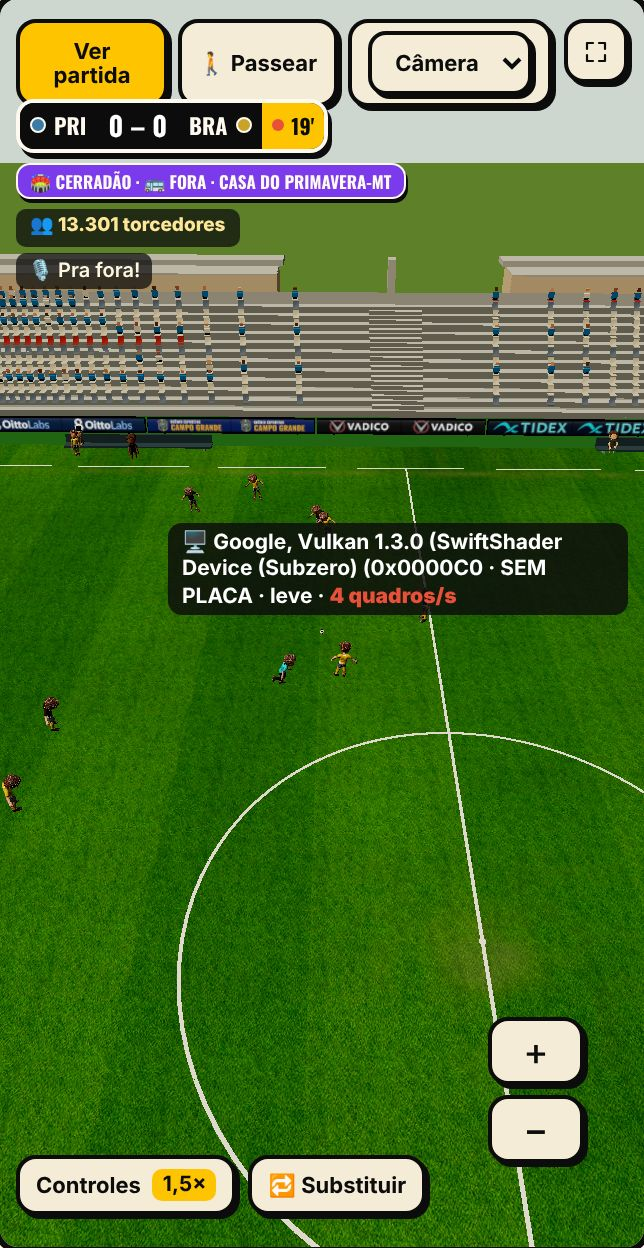
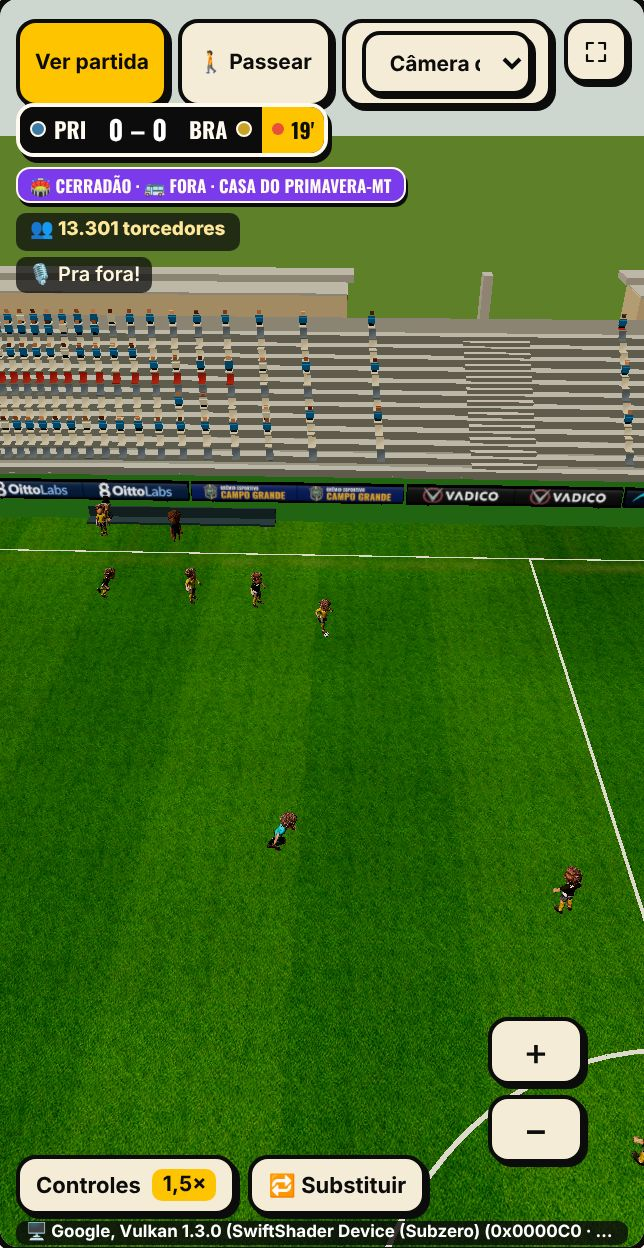
Jogo 3D do mapa: barra de cima numa linha só, placar um pouco abaixo dela e medidor discreto no rodapé; mockup do quadro novo
Claude-Session: https://claude.ai/code/session_018Ap1zPCMVL9XeZJN3u93ZA

diff --git a/src/escalacao/presidencia-complexo-3d.css b/src/escalacao/presidencia-complexo-3d.css
@@ -165,6 +165,6 @@
 .pc3-review[data-watching-match=true] .pc3-navigation .pc3-zoom{font-size:19px}
 .pc3-review[data-watching-match=true] .pc3-match-controls-toggle{min-height:30px!important;padding:4px 8px!important;font-size:11px!important;gap:6px;box-shadow:2px 2px 0 #0c0c0c}
 .pc3-review[data-watching-match=true] .pc3-match-controls-toggle span{padding:2px 5px;font-size:10.5px}
-.pc3-review[data-watching-match=true] .pc3-match-score{top:max(52px,calc(env(safe-area-inset-top) + 46px));gap:3px}
+.pc3-review[data-watching-match=true] .pc3-match-score{top:max(58px,calc(env(safe-area-inset-top) + 52px));gap:3px}
 .pc3-review[data-watching-match=true] .pc3-match-narration{font-size:10px;padding:3px 6px}
 .pc3-review[data-watching-match=true] .pc3-match-controls-panel{bottom:42px}
